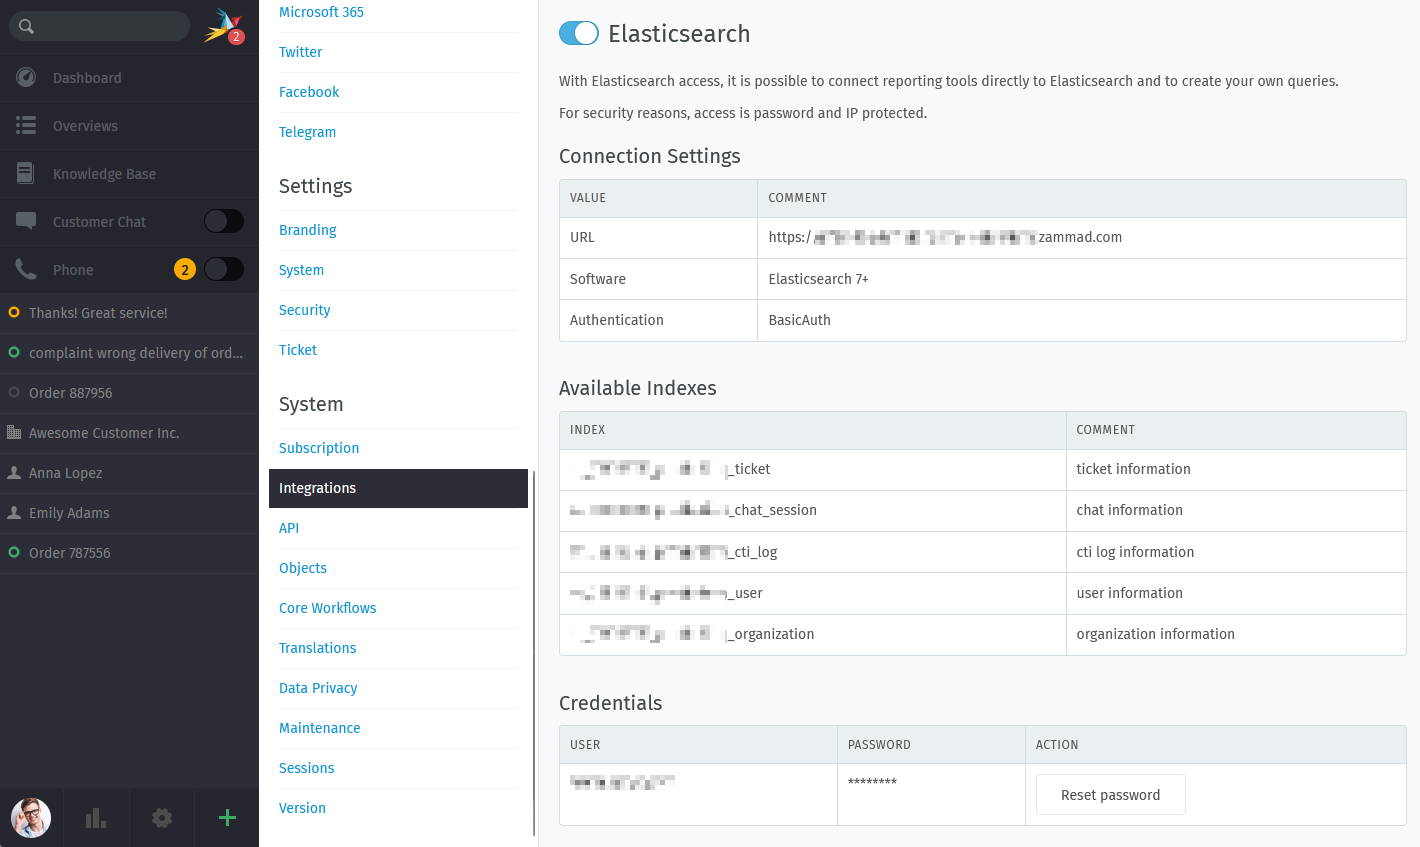
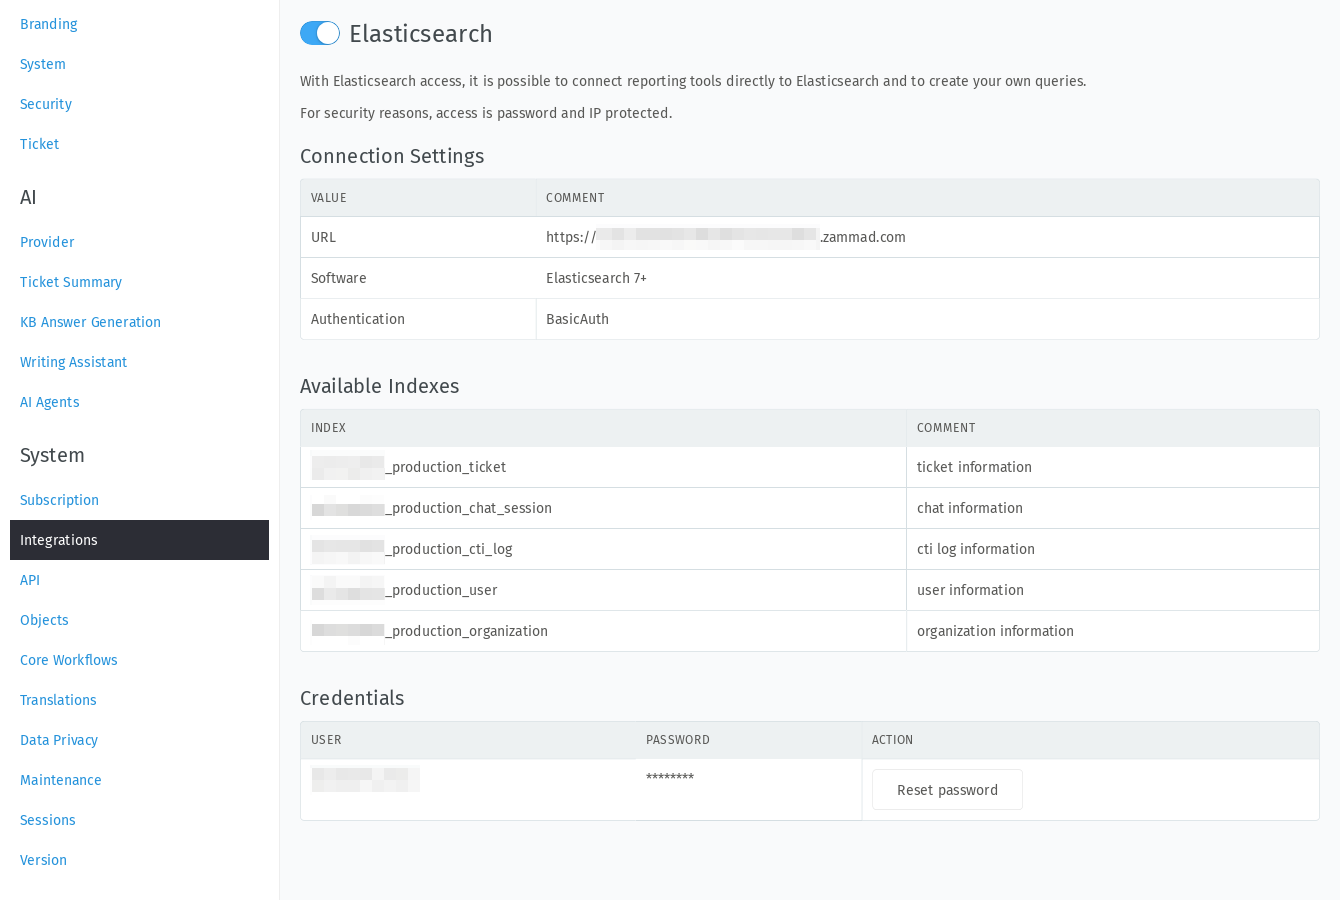
Fixes #1189 - Tweak Elasticsearch (SaaS) integration

Pull request: Fixes #1189 - Tweak Elasticsearch (SaaS) integration

diff --git a/system/integrations/elasticsearch.rst b/system/integrations/elasticsearch.rst
@@ -1,129 +1,79 @@
 Elasticsearch (SaaS)
 ====================
 
-The Elasticsearch integration allows you to create a read-only user to use
-with your favorite reporting tool
-(e.g. :docs:`Grafana </appendix/reporting-tools-thirdparty/grafana.html>`).
+The Elasticsearch (SaaS) integration lets you query your instance's
+search index directly with a reporting tool such as
+:docs:`Grafana </appendix/reporting-tools-thirdparty/grafana.html>`.
+You can find it under *System > Integrations > Elasticsearch*.
 
-.. warning:: **Only available for SaaS customers.**
+.. note::
 
-   In order to use Elasticsearch, you'll need the **Plus** subscription.
-   Self hosted users have all the control over their self hosted Elasticsearch
-   instances.
+   Only available for **SaaS** customers with a **Plus** or **Ultimate** plan.
+   Self hosted customers already have full control over their own Elasticsearch
+   instances and do not need this integration.
+
+.. warning:: **The index contains all ticket and customer data. Keep the
+   credentials secret!** The index includes ticket, user and
+   organization records from your instance, including sensitive customer
+   information. Anyone with the credentials can read them.
 
 .. figure:: /images/system/integrations/elasticsearch/elasticsearch-configuration.png
    :width: 70%
    :align: center
    :alt: Elasticsearch integration page on SaaS environments
 
-Limitations
------------
+The integration has the following limitations:
 
-Please note the following limitations of Elasticsearch access on
-hosted environments:
+- Access to the search index is read-only. That means reporting tools that need
+  to write to the indexes (such as Kibana) are not supported.
+- You can create credentials for one user only.
+- It is not possible to allow or restrict index access for specific IP
+  addresses.
 
-- access to the Elasticsearch index is read-only access
-- currently you're limited to user only
-- Reporting tools that require to write into the indexes
-  (like Kibana) are not supported
-- IP access restriction is currently not yet supported
+Enabling Access
+---------------
 
-Activating Elasticsearch Access
--------------------------------
+External access to your instance's search index is disabled by default.
+To enable it, simply activate the toggle on top of the page.
+After some seconds, a one-time dialog with the Elasticsearch username and
+password shows up. Note the password down, it is displayed only once.
 
-By default external access to your Elasticsearch index is not active.
-You can enable the integration at any time if needed.
+The page also shows **Connection Settings**, **Available Indexes** and
+**Credentials** sections. This is read-only information for your reference.
+The only other interactive control is ``Reset password``. Doing so prompts you
+for confirmation, then invalidates the current password and shows the new one
+in a one-time dialog.
 
-Please ensure to note down the password provided - you won't have access
-to it afterwards.
+Browsing Indexes
+----------------
 
-.. figure:: /images/system/integrations/elasticsearch/activate-es-integration.gif
-   :width: 85%
-   :align: center
-   :alt: Screencast showing activation of Elasticsearch integration
+The page's **Available Indexes** table lists five indexes that are most useful
+for reporting, each shown with its full name including the per-instance index
+prefix:
 
-Connection Settings
--------------------
+- ``<index-prefix>_production_ticket``
+- ``<index-prefix>_production_chat_session``
+- ``<index-prefix>_production_cti_log``
+- ``<index-prefix>_production_user``
+- ``<index-prefix>_production_organization``
 
-This section holds the most important general information for accessing your
-Elasticsearch indexes - such as:
-
-URL
-   A unique subdomain that does not tell your real instance URL.
-
-Software
-   The major version of the search index being used.
-   This is required by some Reporting tools like Grafana.
-
-Authentication
-   The authentication type being supported. ``Basic Authentication``
-
-Available Indexes
------------------
-
-Within this section we're displaying the -in our opinion- most important
-indexes for a Zammad instance.
-
-If you require all indexes or our listing is not good enough for you,
-point your browser to the URL we're providing and append
-``/_aliases?pretty=true``. The result should look like this:
-``https://<URL>.zammad.com/_aliases?pretty=true``.
-
-Your browser will automatically ask for your credentials - you'll then
-see something like this:
+To browse all available indexes, you can open the Elasticsearch URL in your web
+browser with appended ``/_aliases?pretty=true`` (resulting in
+``https://<your-es-url>/_aliases?pretty=true``). Enter the credentials shown
+above and you will see a response listing all available aliases. The
+structure looks like this:
 
 .. code-block:: json
 
    {
-      "XXXXXXXX" : {
-         "aliases" : { }
+      "XXXX_ticket": {
+         "aliases": { }
       },
-      "XXXXXXXX_cti_log" : {
-         "aliases" : { }
-      },
-      "XXXXXXXX_knowledge_base_answer_translation" : {
-         "aliases" : { }
-      },
-      "XXXXXXXX_ticket" : {
-         "aliases" : { }
-      },
-      "XXXXXXXX_knowledge_base_category_translation" : {
-         "aliases" : { }
-      },
-      "XXXXXXXX_knowledge_base_translation" : {
-         "aliases" : { }
-      },
-      "XXXXXXXX_ticket_state" : {
-         "aliases" : { }
-      },
-      "XXXXXXXX_user" : {
-         "aliases" : { }
-      },
-      "XXXXXXXX_stats_store" : {
-         "aliases" : { }
-      },
-      "XXXXXXXX_chat_session" : {
-         "aliases" : { }
-      },
-      "XXXXXXXX_group" : {
-         "aliases" : { }
-      },
-      "XXXXXXXX_ticket_priority" : {
-         "aliases" : { }
-      },
-      "XXXXXXXX_organization" : {
-         "aliases" : { }
+      "XXXX_user": {
+         "aliases": { }
       }
    }
 
-Credentials
------------
-
-Within this section Zammad displays your available users.
-The password is provided once (upon activation) and cannot be retrieved
-after that.
-
-If you need to change or reset your Elasticsearch user password, use the
-"Reset password" button in the credentials table. Doing so creates a brand new
-password for the account in question. This change is immediate, keep in mind
-that this may affect third party tools connected to your instance.
+.. note:: Index names, field names and the alias list reflect
+   Zammad's internal search-index schema. They may change between
+   Zammad releases.